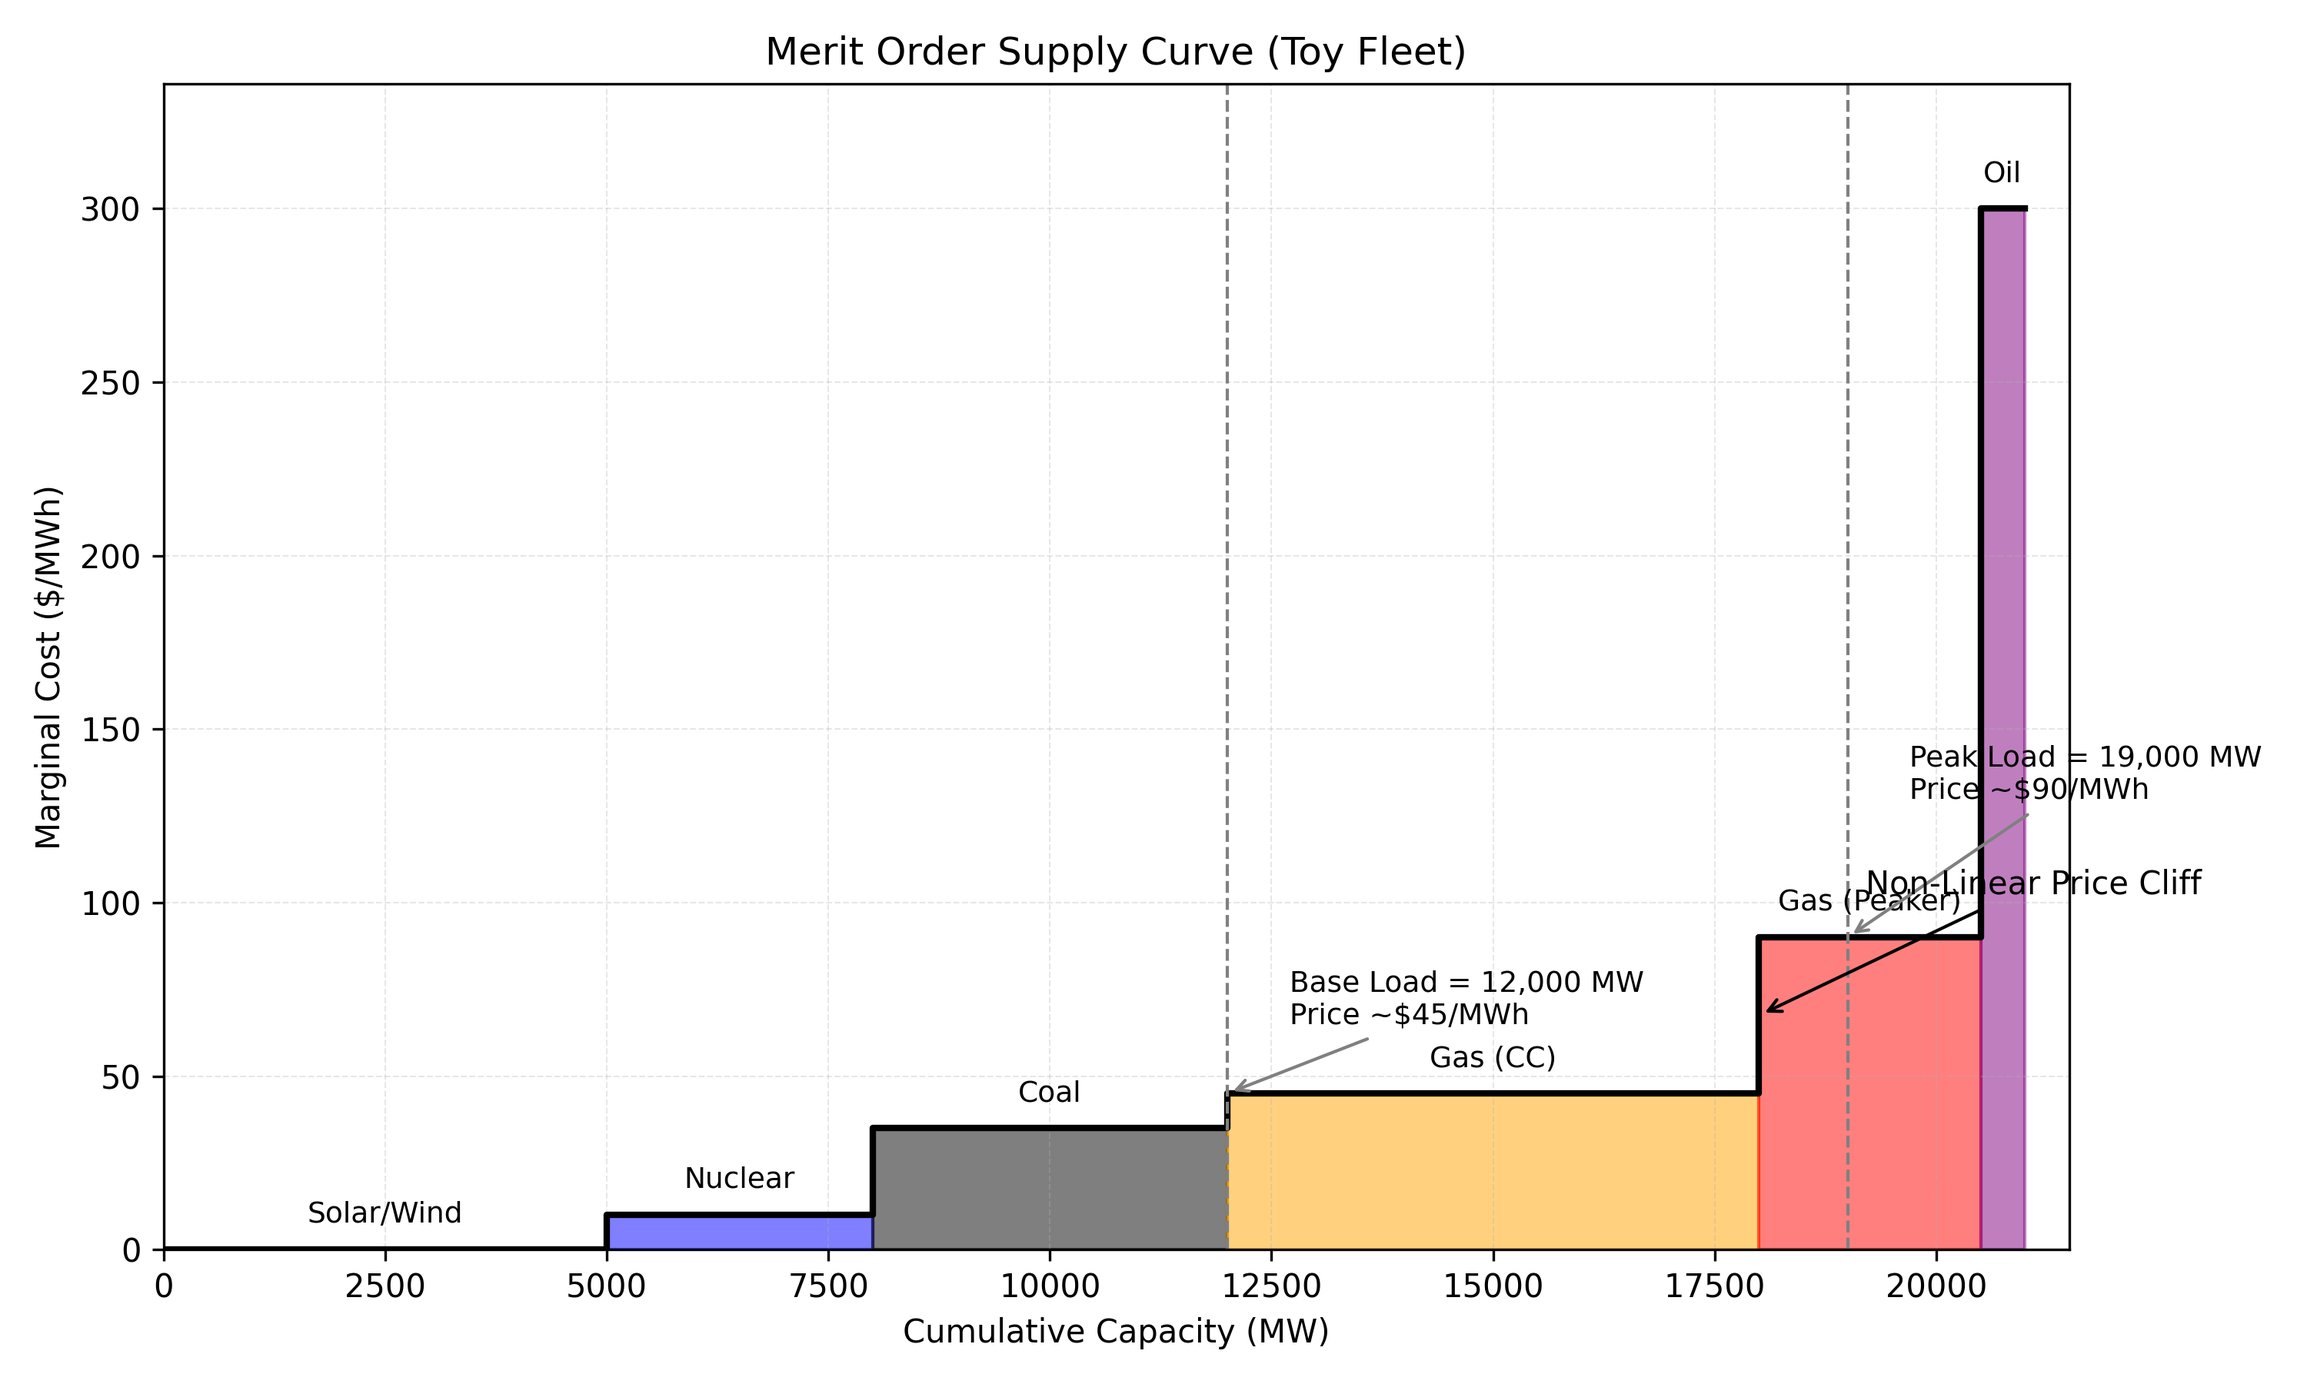
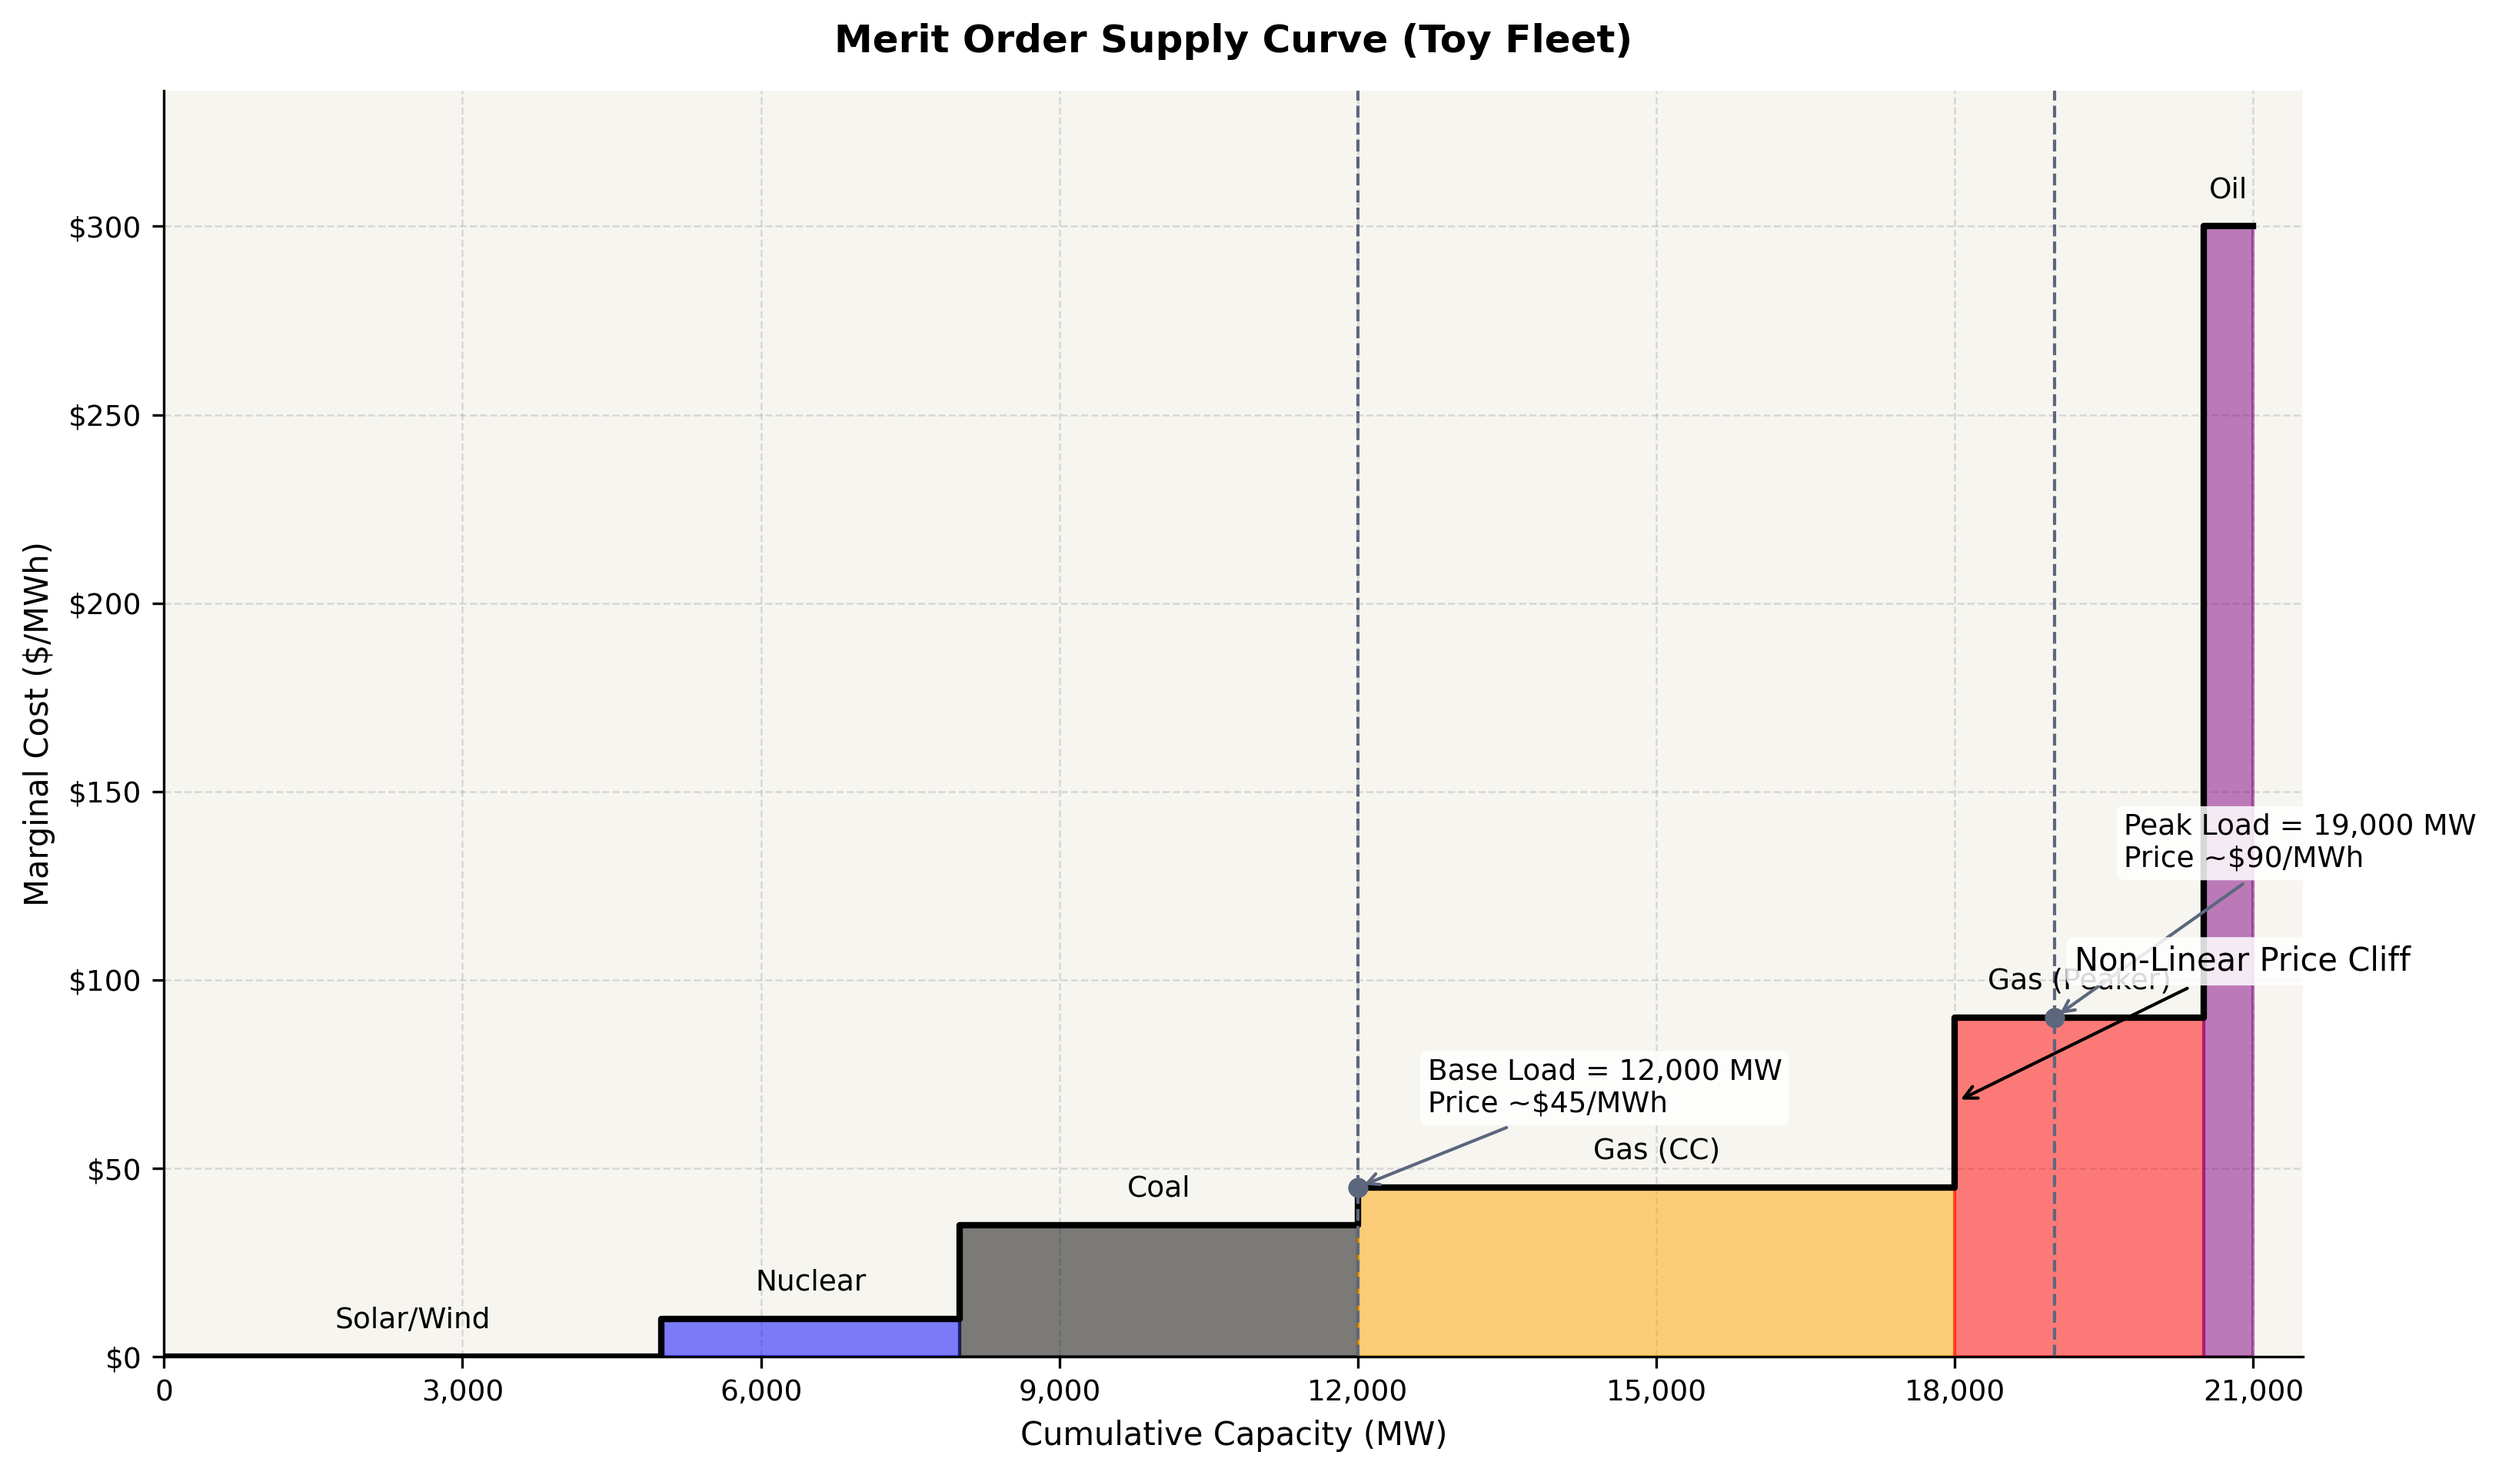
Refactor toy experiment to implement Water-Filling Algorithm for Universal Energy Scaling Laws. Update script and visualization to reflect new methodology, including synthetic load curve generation and dual subplot visualization. Adjust annotations and improve plot aesthetics.

diff --git a/experiments/00_toy_experiment/merit_order_toy.py b/experiments/00_toy_experiment/merit_order_toy.py
@@ -4,6 +4,17 @@ import os
 import matplotlib.pyplot as plt
 import numpy as np
 import pandas as pd
+from matplotlib.ticker import MaxNLocator, StrMethodFormatter
+
+BASE_LOAD_MW = 12000
+PEAK_LOAD_MW = 19000
+CLIFF_CHECK_BLOCK_MW = 1000
+ANNOTATION_BOX = dict(
+    boxstyle="round,pad=0.25",
+    facecolor="white",
+    edgecolor="none",
+    alpha=0.85,
+)
 
 
 def build_toy_fleet() -> pd.DataFrame:
@@ -67,16 +78,24 @@ def price_at(
     return float(prices[idx])
 
 
-def plot_merit_order(df: pd.DataFrame, output_path: str) -> None:
-    total_capacity = int(df["capacity_mw"].sum())
-    max_price = float(df["marginal_cost"].max())
-
+def step_arrays(df: pd.DataFrame) -> tuple[np.ndarray, np.ndarray, np.ndarray, np.ndarray]:
     edges = np.concatenate(([0], df["cum_capacity_mw"].to_numpy()))
     prices = df["marginal_cost"].to_numpy()
     x_step = edges
     y_step = np.concatenate((prices, [prices[-1]]))
+    return edges, prices, x_step, y_step
 
-    fig, ax = plt.subplots(figsize=(10, 6))
+
+def plot_merit_order(df: pd.DataFrame, output_path: str) -> None:
+    total_capacity = int(df["capacity_mw"].sum())
+    max_price = float(df["marginal_cost"].max())
+
+    edges, prices, x_step, y_step = step_arrays(df)
+
+    fig, ax = plt.subplots(figsize=(11, 6.5))
+    fig.patch.set_facecolor("white")
+    ax.set_facecolor("#f7f5f0")
+    ax.set_axisbelow(True)
 
     for _, row in df.iterrows():
         start = float(row["start_capacity_mw"])
@@ -92,7 +111,7 @@ def plot_merit_order(df: pd.DataFrame, output_path: str) -> None:
 
     ax.step(x_step, y_step, where="post", color="black", linewidth=2)
 
-    label_offset = max_price * 0.02
+    label_offset = max(5.0, max_price * 0.02)
     for _, row in df.iterrows():
         start = float(row["start_capacity_mw"])
         end = float(row["cum_capacity_mw"])
@@ -106,29 +125,36 @@ def plot_merit_order(df: pd.DataFrame, output_path: str) -> None:
             fontsize=9,
         )
 
-    base_load = 12000
-    peak_load = 19000
-    base_price = price_at(base_load, edges, prices, boundary="right")
-    peak_price = price_at(peak_load, edges, prices, boundary="right")
+    base_price = price_at(BASE_LOAD_MW, edges, prices, boundary="right")
+    peak_price = price_at(PEAK_LOAD_MW, edges, prices, boundary="right")
 
-    ax.axvline(base_load, color="gray", linestyle="--", linewidth=1)
-    ax.axvline(peak_load, color="gray", linestyle="--", linewidth=1)
+    ax.axvline(BASE_LOAD_MW, color="#5c677d", linestyle="--", linewidth=1)
+    ax.axvline(PEAK_LOAD_MW, color="#5c677d", linestyle="--", linewidth=1)
+    ax.scatter(
+        [BASE_LOAD_MW, PEAK_LOAD_MW],
+        [base_price, peak_price],
+        color="#5c677d",
+        s=28,
+        zorder=5,
+    )
 
     ax.annotate(
-        f"Base Load = {base_load:,} MW\nPrice ~${int(base_price)}/MWh",
-        xy=(base_load, base_price),
-        xytext=(base_load + 700, base_price + 20),
-        arrowprops=dict(arrowstyle="->", color="gray"),
+        f"Base Load = {BASE_LOAD_MW:,} MW\nPrice ~${int(base_price)}/MWh",
+        xy=(BASE_LOAD_MW, base_price),
+        xytext=(BASE_LOAD_MW + 700, base_price + 20),
+        arrowprops=dict(arrowstyle="->", color="#5c677d"),
         fontsize=9,
         ha="left",
+        bbox=ANNOTATION_BOX,
     )
     ax.annotate(
-        f"Peak Load = {peak_load:,} MW\nPrice ~${int(peak_price)}/MWh",
-        xy=(peak_load, peak_price),
-        xytext=(peak_load + 700, peak_price + 40),
-        arrowprops=dict(arrowstyle="->", color="gray"),
+        f"Peak Load = {PEAK_LOAD_MW:,} MW\nPrice ~${int(peak_price)}/MWh",
+        xy=(PEAK_LOAD_MW, peak_price),
+        xytext=(PEAK_LOAD_MW + 700, peak_price + 40),
+        arrowprops=dict(arrowstyle="->", color="#5c677d"),
         fontsize=9,
         ha="left",
+        bbox=ANNOTATION_BOX,
     )
 
     gas_cc_end = float(
@@ -148,17 +174,25 @@ def plot_merit_order(df: pd.DataFrame, output_path: str) -> None:
         arrowprops=dict(arrowstyle="->", color="black"),
         fontsize=10,
         ha="left",
+        bbox=ANNOTATION_BOX,
     )
 
-    ax.set_title("Merit Order Supply Curve (Toy Fleet)")
+    ax.set_title("Merit Order Supply Curve (Toy Fleet)", pad=12, weight="bold")
     ax.set_xlabel("Cumulative Capacity (MW)")
     ax.set_ylabel("Marginal Cost ($/MWh)")
     ax.set_xlim(0, total_capacity + 500)
     ax.set_ylim(0, max_price * 1.12)
-    ax.grid(alpha=0.3, linestyle="--", linewidth=0.5)
+    ax.grid(alpha=0.35, linestyle="--", linewidth=0.6, color="#9aa0a6")
+    ax.xaxis.set_major_locator(MaxNLocator(nbins=8, integer=True))
+    ax.yaxis.set_major_locator(MaxNLocator(nbins=7, integer=True))
+    ax.xaxis.set_major_formatter(StrMethodFormatter("{x:,.0f}"))
+    ax.yaxis.set_major_formatter(StrMethodFormatter("${x:,.0f}"))
+    ax.tick_params(axis="both", labelsize=9)
+    ax.spines["top"].set_visible(False)
+    ax.spines["right"].set_visible(False)
 
     fig.tight_layout()
-    fig.savefig(output_path, dpi=300)
+    fig.savefig(output_path, dpi=300, bbox_inches="tight")
     plt.close(fig)
 
 
@@ -170,15 +204,14 @@ def main() -> None:
     assert total_capacity == 21000
     assert max_price == 300
 
-    edges = np.concatenate(([0], df["cum_capacity_mw"].to_numpy()))
-    prices = df["marginal_cost"].to_numpy()
+    edges, prices, _, _ = step_arrays(df)
 
-    # Bin the demand to emphasize discrete jumps in the toy curve.
+    # Use coarse 1,000 MW blocks to emphasize the discrete toy cliff in assertions.
     price_at_18999 = price_at(
-        18999, edges, prices, boundary="left", bin_size_mw=1000
+        18999, edges, prices, boundary="left", bin_size_mw=CLIFF_CHECK_BLOCK_MW
     )
     price_at_19001 = price_at(
-        19001, edges, prices, boundary="left", bin_size_mw=1000
+        19001, edges, prices, boundary="left", bin_size_mw=CLIFF_CHECK_BLOCK_MW
     )
     assert price_at_19001 > (price_at_18999 * 1.5), (
         "Error: The Price Cliff is missing or too small."

diff --git a/experiments/00_toy_experiment/codex_prompt.md b/experiments/00_toy_experiment/codex_prompt.md
@@ -1,40 +1,45 @@
-You are an expert Scientific Programmer and Energy Systems Researcher. Your task is to write and execute a Python script (`merit_order_toy.py`) that generates a visualization for a research paper on "Energy Scaling Laws."
+You are an expert Scientific Programmer and Energy Systems Researcher. Your task is to write and execute a Python script (`water_filling_scaling.py`) that generates a visualization for a research paper on "Universal Energy Scaling Laws."
 
 ### **Project Setup Context**
-This project uses **uv** for dependency management with environment at `$HOME/uv_envs/scaling-laws-power-grid`. Code goes in `py_src/scaling_laws_power_grid/` (not standard `src/`). The toy fleet data is already defined in `py_src/scaling_laws_power_grid/core.py`. Run this script from the `experiments/00_toy_experiment/` directory.
+This project uses **uv** for dependency management with environment at `$HOME/uv_envs/scaling-laws-power-grid`. Code goes in `py_src/scaling_laws_power_grid/` (not standard `src/`). Run this script from the `experiments/01_water_filling/` directory (create if needed).
 
 ### **1. The Scientific Context**
-The paper challenges the assumption that energy prices scale linearly. Instead, we model the grid using the **"Merit Order Effect,"** where the supply curve is a discrete **step function** based on available technologies (Solar → Nuclear → Coal → Gas → Peakers).
-* **Goal:** Visualize the "Price Cliff"—the sharp non-linear jump in price when demand crosses from one technology tier to the next.
+The paper proposes a "Universal Scaling Law" for grid stability. We reject region-specific supply stacks and instead model the grid as a **Physics Problem** using the **Water-Filling Algorithm**.
+* **Core Idea:** Treat the grid load curve like a terrain. Batteries are "water" that fills the valleys (Trough/Charging) and shaves the peaks (Peak/Discharging).
+* **Hypothesis:** Peak Load ($P_{peak}$) decays as a power law relative to Battery Capacity ($C$): $P_{peak} \propto C^{-\alpha}$.
 
 ### **2. Implementation Requirements**
-Write a robust Python script using `matplotlib`, `pandas`, and `numpy`.
+Write a robust Python script using `matplotlib`, `numpy`, and `scipy.optimize` (if needed for curve fitting).
 
-**Step A: Define the Data (Hardcoded)**
-Do not fetch external data. Use this exact "Toy Fleet" to guarantee the visualization matches the theory:
-* **Solar/Wind:** $0/MWh, 5000 MW, Green
-* **Nuclear:** $10/MWh, 3000 MW, Blue
-* **Coal:** $35/MWh, 4000 MW, Black
-* **Gas (CC):** $45/MWh, 6000 MW, Orange
-* **Gas (Peaker):** $90/MWh, 2500 MW, Red
-* **Oil:** $300/MWh, 500 MW, Purple
+**Step A: Define the Data (The "Duck Curve")**
+Do not fetch external data. Generate a synthetic 24-hour "Duck Curve" using `numpy` to represent the two key periods:
+* **Time:** 0 to 24 hours (resolution: 100 points).
+* **Base Formula:** A combination of sine waves to create a deep midday trough (solar) and a high evening peak.
+    * *Suggestion:* `Load = 10000 + 4000*sin(t) - 3000*cos(2t)` (Adjust coefficients to ensure a clear Peak ~15,000 MW and Trough ~6,000 MW).
+* **Constraints:** T1 (Abundance) is roughly 10am-2pm. T2 (Scarcity) is roughly 6pm-9pm.
 
-**Step B: Construct the Step Function**
-* Create an X-axis array for "Cumulative Capacity (MW)".
-* Create a Y-axis array for "Marginal Cost ($/MWh)".
-* *Crucial:* ensure the data is structured to plot a **STEP FUNCTION** (where the price is flat for the duration of a generator's capacity, then jumps vertically).
+**Step B: The Water-Filling Algorithm (The Logic)**
+Implement a function `apply_water_filling(load_curve, battery_capacity_mwh, power_rating_mw)`:
+1.  **Valley Filling:** Identify the lowest points. "Pour" the battery capacity into these points to raise the floor (simulating charging).
+2.  **Peak Shaving:** Identify the highest points. "Drain" the stored capacity to lower the ceiling (simulating discharging).
+3.  **Constraint:** You cannot move more energy than `battery_capacity_mwh`.
+4.  **Constraint:** You cannot change the load at any single time step by more than `power_rating_mw`.
 
-**Step C: Plotting**
-* Use `plt.step(..., where='post')` or manually construct the vertices. **Do not use a smooth `plt.plot` line.**
-* Use `plt.fill_between` to color the area under each step with the specific generator color (alpha=0.5).
-* Label each step with the technology name (centered horizontally on the step).
+**Step C: The Scaling Experiment**
+* Run the simulation for `Battery_Capacity` ranging from **0 MWh** to **50,000 MWh** (logarithmically spaced steps).
+* For each step, record the **New Peak Load**.
+* Fit a Power Law ($y = ax^{-b} + c$) to this data.
 
-**Step D: Annotations (The Hypothesis Proof)**
-* **Base Load Line:** Vertical dashed line at **12,000 MW**. Annotate intersection price (~$45).
-* **Peak Load Line:** Vertical dashed line at **19,000 MW**. Annotate intersection price (~$90).
-* **The Cliff:** Add an arrow and text label pointing to the vertical jump between "Gas (CC)" and "Gas (Peaker)" labeled: **"Non-Linear Price Cliff"**.
+**Step D: Visualization (Dual Plot)**
+Create a figure with two subplots:
+1.  **Subplot 1 (The Mechanism):** Show the original Load Curve (Black) vs. the Flattened Load Curve (Green) for a specific "Medium" battery size (e.g., 20,000 MWh). Shade the "Charged" and "Discharged" areas.
+2.  **Subplot 2 (The Scaling Law):**
+    * X-Axis: Battery Capacity (MWh) [Log Scale].
+    * Y-Axis: Peak Load (MW) [Linear Scale].
+    * Plot the experimental data (dots) and the fitted Power Law line (dashed red).
+    * **Annotation:** Display the calculated $\alpha$ (decay rate) on the plot.
 
-### **3. execution & Verification**
-* Save the plot as `merit_order_toy_viz.png` (High DPI).
-* The script must include a `main` block that runs the generation.
-* **Self-Correction Check:** After saving, use `os.path.exists()` to verify the file was created and print: "SUCCESS: Visualization saved to merit_order_toy_viz.png".
+### **3. Execution & Verification**
+* Save the plot as `water_filling_scaling_viz.png` (High DPI).
+* The script must include a `main` block.
+* **Self-Correction Check:** Verify file creation with `os.path.exists()` and print: "SUCCESS: Visualization saved to water_filling_scaling_viz.png".
